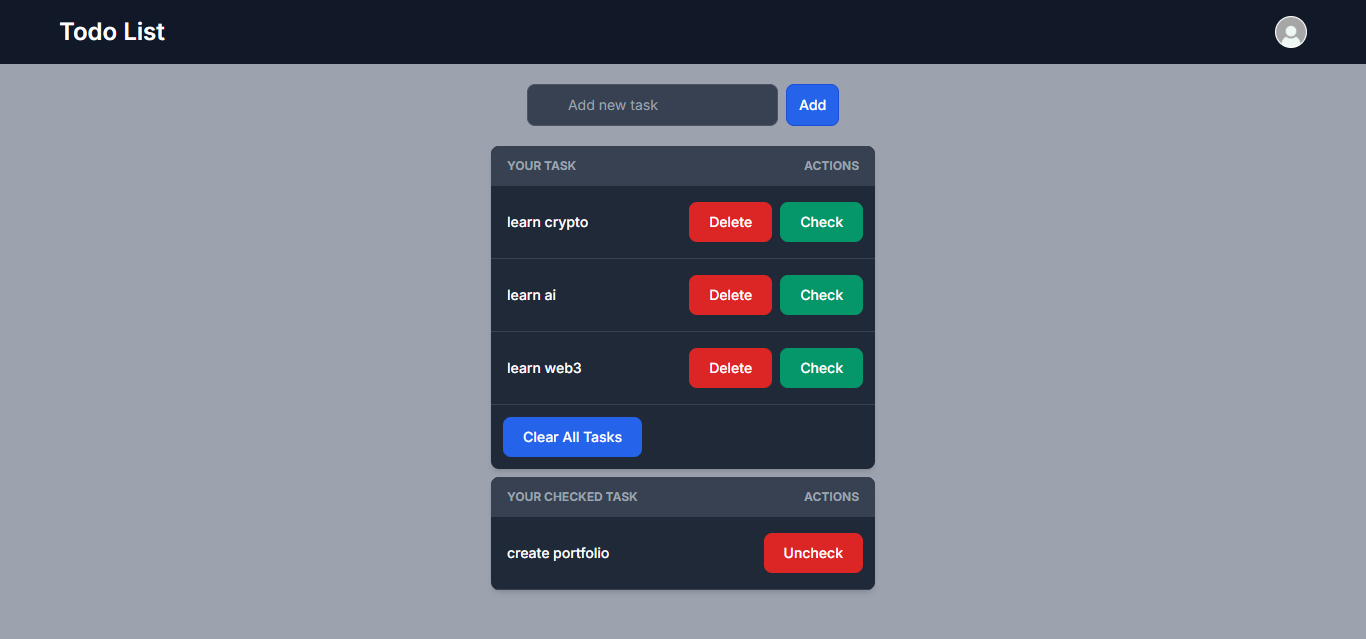
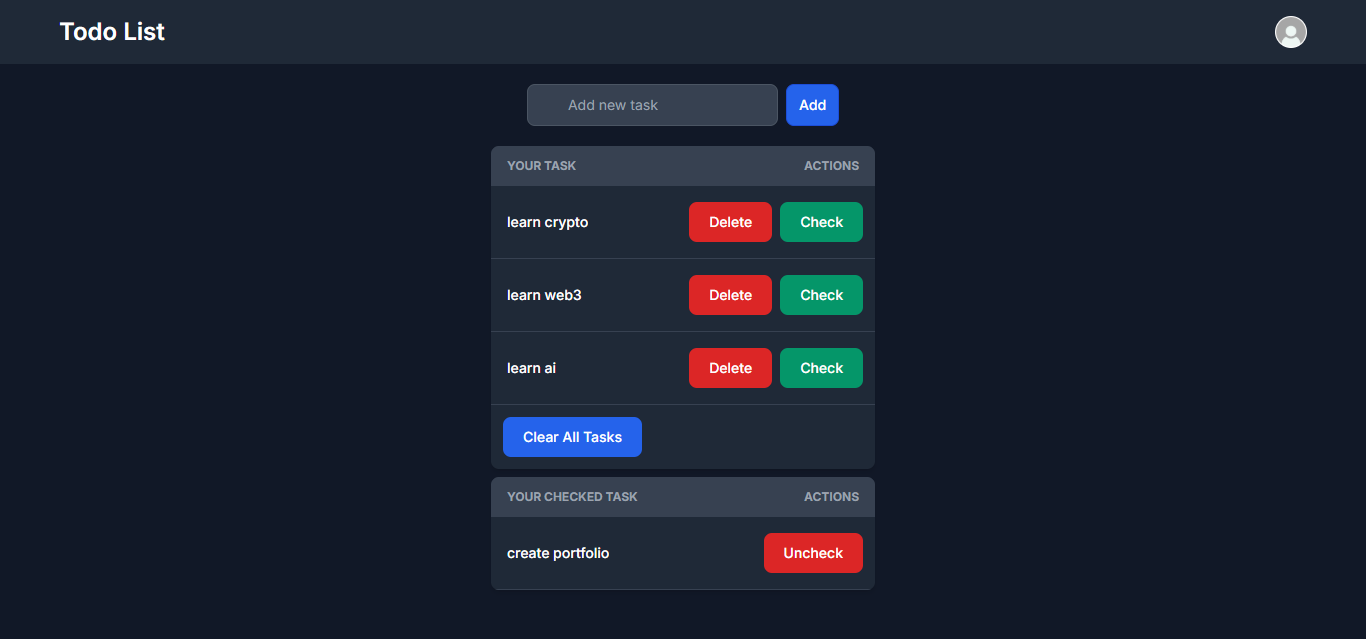
fix: change color

diff --git a/resources/views/components/nav.blade.php b/resources/views/components/nav.blade.php
@@ -1,4 +1,4 @@
-   <nav class="bg-white border-gray-200 dark:bg-gray-900">
+   <nav class="bg-white border-gray-200 dark:bg-gray-800 dark:border-gray-700">
        <div class="max-w-screen-xl flex flex-wrap items-center justify-between mx-auto p-4">
            <a href="{{ route('home') }}" class="flex items-center space-x-3 rtl:space-x-reverse">
                <span class="self-center text-2xl font-semibold whitespace-nowrap dark:text-white">Todo List</span>

diff --git a/resources/views/todo.blade.php b/resources/views/todo.blade.php
@@ -10,7 +10,7 @@
     @vite(['resources/css/app.css', 'resources/js/app.js'])
 </head>
 
-<body class="min-h-screen bg-gray-400">
+<body class="min-h-screen bg-gray-900">
     <x-nav></x-nav>
 
     <div class="container flex justify-center mx-auto my-5">
